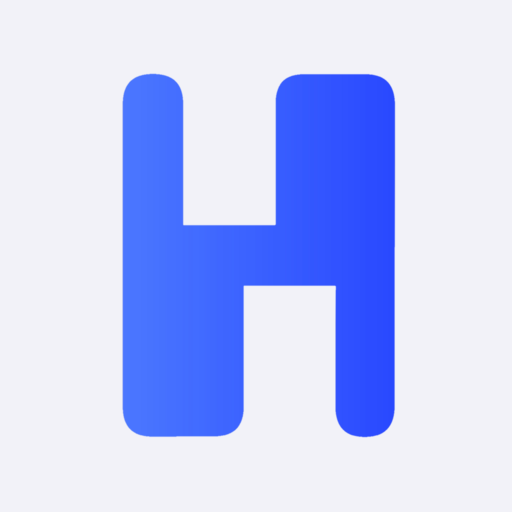
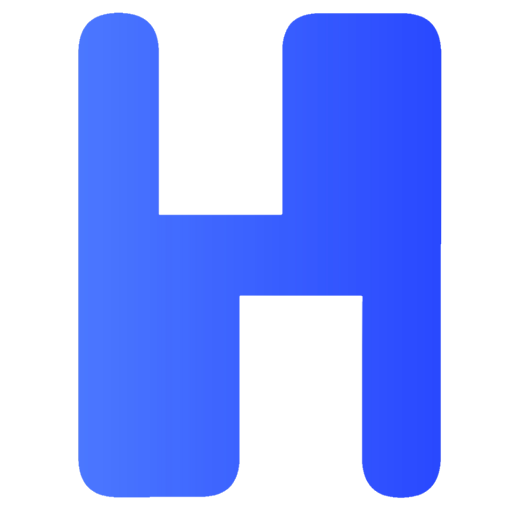
wish it pwa

Changed region(s): [[0.125, 0.0, 0.875, 1.0]]

diff --git a/index.html b/index.html
@@ -1,4 +1,4 @@
-<!doctype html><html><head><meta name=generator content="Hugo 0.94.0"><meta charset=utf-8><meta name=viewport content="width=device-width,initial-scale=1"><meta name=google-site-verification content="L5chh5oVhWYYp1IqtLhmsiMPhS5k-FSFng2yl7F-F2s"><meta name=description content="Blog and Resume for Ahmad Habibi"><meta name=msapplication-TileColor content="#f2f2f8"><meta name=theme-color content="#f2f2f8"><title>HBBIIIII - Ahmad Rizky Nusantara Habibi</title><link rel="shortcut icon" href=/favicon.ico alt type=image/png><link rel=apple-touch-icon sizes=180x180 href=/apple-touch-icon.png><link rel=icon type=image/png sizes=32x32 href=/favicon-32x32.png><link rel=icon type=image/png sizes=16x16 href=/favicon-16x16.png><link rel=manifest href=/manifest.json><link rel=mask-icon href=/safari-pinned-tab.svg color=#0d6efd><link href=/css/style.css rel=stylesheet><link href=/css/syntax.css rel=stylesheet><link href=/css/font-awesome-6.0.0.css rel=stylesheet><link href=/css/bootstrap.min.css rel=stylesheet><script type=text/javascript src=/js/bootstrap.bundle.min.js async></script>
+<!doctype html><html><head><meta name=generator content="Hugo 0.94.0"><meta charset=utf-8><meta name=viewport content="width=device-width,initial-scale=1"><title>HBBIIIII - Ahmad Rizky Nusantara Habibi</title><meta name=google-site-verification content="L5chh5oVhWYYp1IqtLhmsiMPhS5k-FSFng2yl7F-F2s"><meta name=description content="Blog and Resume for Ahmad Habibi"><meta name=msapplication-TileImage content="android-chrome-144x144.png"><meta name=msapplication-TileColor content="#f2f2f8"><meta name=apple-mobile-web-app-capable content="yes"><meta name=apple-mobile-web-app-status-bar-style content="#f2f2f8"><meta name=apple-mobile-web-app-title content="Hello World"><meta name=theme-color content="#1f1f24"><link rel="shortcut icon" href=/favicon.ico alt type=image/x-icon><link rel=apple-touch-icon sizes=180x180 href=/apple-touch-icon.png><link rel=icon type=image/png sizes=32x32 href=/favicon-32x32.png><link rel=icon type=image/png sizes=16x16 href=/favicon-16x16.png><link rel=manifest href=/manifest.json><link href=/css/style.css rel=stylesheet><link href=/css/syntax.css rel=stylesheet><link href=/css/font-awesome-6.0.0.css rel=stylesheet><link href=/css/bootstrap.min.css rel=stylesheet><script type=text/javascript src=/js/bootstrap.bundle.min.js async></script>
 <script type=text/javascript src=/js/font-awesome-6.0.0.js async></script>
 <script type=text/javascript src=/js/dark-mode.js></script></head><body><nav class="navbar navbar-expand-lg fixed-top shadow border-top border-5 border-primary"><div class=container-lg><a class="navbar-brand fw-bold fs-5" href=https://habibi2004.tech/><span class=text-coloring>HBBII</span><span class=text-primary>III</span><span class=text-coloring>></span></a>
 <button class=navbar-toggler type=button data-bs-toggle=collapse data-bs-target=#navbarNav aria-controls=navbarNav aria-expanded=false aria-label="Toggle navigation">
@@ -6,4 +6,4 @@
 <a class=text-coloring href=https://wa.me/6285339384959><i class="fa-brands fa-whatsapp social-icons"></i></a>
 <a class=text-coloring href=https://www.instagram.com/ahmadhabibi14_><i class="fa-brands fa-instagram social-icons"></i></a>
 <a class=text-coloring href=https://t.me/ahmadhabibi14><i class="fa-brands fa-telegram social-icons"></i></a>
-<a class=text-coloring href=https://www.github.com/ahmadhabibi14><i class="fa-brands fa-github social-icons"></i></a></div><br><div><hr><br><p class=fs-5 style=font-family:calibri>I'm a 17-year-old student from Indonesia. This is my Personal website which are include my Portfolio and Blogs.</p><br><hr></div></div></div></div></div></section><script>navigator.serviceWorker.controller?console.log("cannot register"):navigator.serviceWorker.register("./service-worker.js").then(function(e){console.log("Service worker has been registered for scope: "+e.scope)})</script></div><footer class="footer py-4"><div class=container-lg><div class=row><div class=col-lg-12><p class="m-0 text-center text-second">&copy; <script>document.write((new Date).getFullYear())</script>• <a href=https://habibi2004.tech/ class="text-decoration-none text-second">Ahmad Habibi</a></p><p class="m-0 text-center text-second">Made with ❤ using <a href=https://gohugo.io class="text-decoration-none text-second">Hugo</a></p></div></div></div></footer></body></html>
+<a class=text-coloring href=https://www.github.com/ahmadhabibi14><i class="fa-brands fa-github social-icons"></i></a></div><br><div><hr><br><p class=fs-5 style=font-family:calibri>I'm a 17-year-old student from Indonesia. This is my Personal website which are include my Portfolio and Blogs.</p><br><hr></div></div></div></div></div></section><script>window.onload=()=>{'use strict';"serviceWorker"in navigator&&navigator.serviceWorker.register("./service-worker.js")}</script></div><footer class="footer py-4"><div class=container-lg><div class=row><div class=col-lg-12><p class="m-0 text-center text-second">&copy; <script>document.write((new Date).getFullYear())</script>• <a href=https://habibi2004.tech/ class="text-decoration-none text-second">Ahmad Habibi</a></p><p class="m-0 text-center text-second">Made with ❤ using <a href=https://gohugo.io class="text-decoration-none text-second">Hugo</a></p></div></div></div></footer></body></html>

diff --git a/blog/konfigurasi-custom-domain-github-page-dengan-cloudflare/index.html b/blog/konfigurasi-custom-domain-github-page-dengan-cloudflare/index.html
@@ -1,4 +1,4 @@
-<!doctype html><html><head><meta charset=utf-8><meta name=viewport content="width=device-width,initial-scale=1"><meta name=google-site-verification content="L5chh5oVhWYYp1IqtLhmsiMPhS5k-FSFng2yl7F-F2s"><meta name=description content="Blog and Resume for Ahmad Habibi"><meta name=msapplication-TileColor content="#f2f2f8"><meta name=theme-color content="#f2f2f8"><title>Konfigurasi Custom Domain GitHub Page dengan Cloudflare</title><link rel="shortcut icon" href=/favicon.ico alt type=image/png><link rel=apple-touch-icon sizes=180x180 href=/apple-touch-icon.png><link rel=icon type=image/png sizes=32x32 href=/favicon-32x32.png><link rel=icon type=image/png sizes=16x16 href=/favicon-16x16.png><link rel=manifest href=/manifest.json><link rel=mask-icon href=/safari-pinned-tab.svg color=#0d6efd><link href=/css/style.css rel=stylesheet><link href=/css/syntax.css rel=stylesheet><link href=/css/font-awesome-6.0.0.css rel=stylesheet><link href=/css/bootstrap.min.css rel=stylesheet><script type=text/javascript src=/js/bootstrap.bundle.min.js async></script>
+<!doctype html><html><head><meta charset=utf-8><meta name=viewport content="width=device-width,initial-scale=1"><title>Konfigurasi Custom Domain GitHub Page dengan Cloudflare</title><meta name=google-site-verification content="L5chh5oVhWYYp1IqtLhmsiMPhS5k-FSFng2yl7F-F2s"><meta name=description content="Blog and Resume for Ahmad Habibi"><meta name=msapplication-TileImage content="android-chrome-144x144.png"><meta name=msapplication-TileColor content="#f2f2f8"><meta name=apple-mobile-web-app-capable content="yes"><meta name=apple-mobile-web-app-status-bar-style content="#f2f2f8"><meta name=apple-mobile-web-app-title content="Hello World"><meta name=theme-color content="#1f1f24"><link rel="shortcut icon" href=/favicon.ico alt type=image/x-icon><link rel=apple-touch-icon sizes=180x180 href=/apple-touch-icon.png><link rel=icon type=image/png sizes=32x32 href=/favicon-32x32.png><link rel=icon type=image/png sizes=16x16 href=/favicon-16x16.png><link rel=manifest href=/manifest.json><link href=/css/style.css rel=stylesheet><link href=/css/syntax.css rel=stylesheet><link href=/css/font-awesome-6.0.0.css rel=stylesheet><link href=/css/bootstrap.min.css rel=stylesheet><script type=text/javascript src=/js/bootstrap.bundle.min.js async></script>
 <script type=text/javascript src=/js/font-awesome-6.0.0.js async></script>
 <script type=text/javascript src=/js/dark-mode.js></script></head><body><nav class="navbar navbar-expand-lg fixed-top shadow border-top border-5 border-primary"><div class=container-lg><a class="navbar-brand fw-bold fs-5" href=https://habibi2004.tech/><span class=text-coloring>HBBII</span><span class=text-primary>III</span><span class=text-coloring>></span></a>
 <button class=navbar-toggler type=button data-bs-toggle=collapse data-bs-target=#navbarNav aria-controls=navbarNav aria-expanded=false aria-label="Toggle navigation">

diff --git a/blog/solved-manjaro-os-incorrect-password-problem/index.html b/blog/solved-manjaro-os-incorrect-password-problem/index.html
@@ -1,4 +1,4 @@
-<!doctype html><html><head><meta charset=utf-8><meta name=viewport content="width=device-width,initial-scale=1"><meta name=google-site-verification content="L5chh5oVhWYYp1IqtLhmsiMPhS5k-FSFng2yl7F-F2s"><meta name=description content="Blog and Resume for Ahmad Habibi"><meta name=msapplication-TileColor content="#f2f2f8"><meta name=theme-color content="#f2f2f8"><title>[SOLVED]: Manjaro OS Incorrect Password Problem</title><link rel="shortcut icon" href=/favicon.ico alt type=image/png><link rel=apple-touch-icon sizes=180x180 href=/apple-touch-icon.png><link rel=icon type=image/png sizes=32x32 href=/favicon-32x32.png><link rel=icon type=image/png sizes=16x16 href=/favicon-16x16.png><link rel=manifest href=/manifest.json><link rel=mask-icon href=/safari-pinned-tab.svg color=#0d6efd><link href=/css/style.css rel=stylesheet><link href=/css/syntax.css rel=stylesheet><link href=/css/font-awesome-6.0.0.css rel=stylesheet><link href=/css/bootstrap.min.css rel=stylesheet><script type=text/javascript src=/js/bootstrap.bundle.min.js async></script>
+<!doctype html><html><head><meta charset=utf-8><meta name=viewport content="width=device-width,initial-scale=1"><title>[SOLVED]: Manjaro OS Incorrect Password Problem</title><meta name=google-site-verification content="L5chh5oVhWYYp1IqtLhmsiMPhS5k-FSFng2yl7F-F2s"><meta name=description content="Blog and Resume for Ahmad Habibi"><meta name=msapplication-TileImage content="android-chrome-144x144.png"><meta name=msapplication-TileColor content="#f2f2f8"><meta name=apple-mobile-web-app-capable content="yes"><meta name=apple-mobile-web-app-status-bar-style content="#f2f2f8"><meta name=apple-mobile-web-app-title content="Hello World"><meta name=theme-color content="#1f1f24"><link rel="shortcut icon" href=/favicon.ico alt type=image/x-icon><link rel=apple-touch-icon sizes=180x180 href=/apple-touch-icon.png><link rel=icon type=image/png sizes=32x32 href=/favicon-32x32.png><link rel=icon type=image/png sizes=16x16 href=/favicon-16x16.png><link rel=manifest href=/manifest.json><link href=/css/style.css rel=stylesheet><link href=/css/syntax.css rel=stylesheet><link href=/css/font-awesome-6.0.0.css rel=stylesheet><link href=/css/bootstrap.min.css rel=stylesheet><script type=text/javascript src=/js/bootstrap.bundle.min.js async></script>
 <script type=text/javascript src=/js/font-awesome-6.0.0.js async></script>
 <script type=text/javascript src=/js/dark-mode.js></script></head><body><nav class="navbar navbar-expand-lg fixed-top shadow border-top border-5 border-primary"><div class=container-lg><a class="navbar-brand fw-bold fs-5" href=https://habibi2004.tech/><span class=text-coloring>HBBII</span><span class=text-primary>III</span><span class=text-coloring>></span></a>
 <button class=navbar-toggler type=button data-bs-toggle=collapse data-bs-target=#navbarNav aria-controls=navbarNav aria-expanded=false aria-label="Toggle navigation">

diff --git a/blog/cara-menjalankan-local-web-server-di-linux/index.html b/blog/cara-menjalankan-local-web-server-di-linux/index.html
@@ -1,4 +1,4 @@
-<!doctype html><html><head><meta charset=utf-8><meta name=viewport content="width=device-width,initial-scale=1"><meta name=google-site-verification content="L5chh5oVhWYYp1IqtLhmsiMPhS5k-FSFng2yl7F-F2s"><meta name=description content="Blog and Resume for Ahmad Habibi"><meta name=msapplication-TileColor content="#f2f2f8"><meta name=theme-color content="#f2f2f8"><title>Cara Menjalankan Local Web Server Di Linux</title><link rel="shortcut icon" href=/favicon.ico alt type=image/png><link rel=apple-touch-icon sizes=180x180 href=/apple-touch-icon.png><link rel=icon type=image/png sizes=32x32 href=/favicon-32x32.png><link rel=icon type=image/png sizes=16x16 href=/favicon-16x16.png><link rel=manifest href=/manifest.json><link rel=mask-icon href=/safari-pinned-tab.svg color=#0d6efd><link href=/css/style.css rel=stylesheet><link href=/css/syntax.css rel=stylesheet><link href=/css/font-awesome-6.0.0.css rel=stylesheet><link href=/css/bootstrap.min.css rel=stylesheet><script type=text/javascript src=/js/bootstrap.bundle.min.js async></script>
+<!doctype html><html><head><meta charset=utf-8><meta name=viewport content="width=device-width,initial-scale=1"><title>Cara Menjalankan Local Web Server Di Linux</title><meta name=google-site-verification content="L5chh5oVhWYYp1IqtLhmsiMPhS5k-FSFng2yl7F-F2s"><meta name=description content="Blog and Resume for Ahmad Habibi"><meta name=msapplication-TileImage content="android-chrome-144x144.png"><meta name=msapplication-TileColor content="#f2f2f8"><meta name=apple-mobile-web-app-capable content="yes"><meta name=apple-mobile-web-app-status-bar-style content="#f2f2f8"><meta name=apple-mobile-web-app-title content="Hello World"><meta name=theme-color content="#1f1f24"><link rel="shortcut icon" href=/favicon.ico alt type=image/x-icon><link rel=apple-touch-icon sizes=180x180 href=/apple-touch-icon.png><link rel=icon type=image/png sizes=32x32 href=/favicon-32x32.png><link rel=icon type=image/png sizes=16x16 href=/favicon-16x16.png><link rel=manifest href=/manifest.json><link href=/css/style.css rel=stylesheet><link href=/css/syntax.css rel=stylesheet><link href=/css/font-awesome-6.0.0.css rel=stylesheet><link href=/css/bootstrap.min.css rel=stylesheet><script type=text/javascript src=/js/bootstrap.bundle.min.js async></script>
 <script type=text/javascript src=/js/font-awesome-6.0.0.js async></script>
 <script type=text/javascript src=/js/dark-mode.js></script></head><body><nav class="navbar navbar-expand-lg fixed-top shadow border-top border-5 border-primary"><div class=container-lg><a class="navbar-brand fw-bold fs-5" href=https://habibi2004.tech/><span class=text-coloring>HBBII</span><span class=text-primary>III</span><span class=text-coloring>></span></a>
 <button class=navbar-toggler type=button data-bs-toggle=collapse data-bs-target=#navbarNav aria-controls=navbarNav aria-expanded=false aria-label="Toggle navigation">

diff --git a/blog/customize-syntax-highlighting-in-hugo/index.html b/blog/customize-syntax-highlighting-in-hugo/index.html
@@ -1,4 +1,4 @@
-<!doctype html><html><head><meta charset=utf-8><meta name=viewport content="width=device-width,initial-scale=1"><meta name=google-site-verification content="L5chh5oVhWYYp1IqtLhmsiMPhS5k-FSFng2yl7F-F2s"><meta name=description content="Blog and Resume for Ahmad Habibi"><meta name=msapplication-TileColor content="#f2f2f8"><meta name=theme-color content="#f2f2f8"><title>Customize Syntax Highlighting in Hugo</title><link rel="shortcut icon" href=/favicon.ico alt type=image/png><link rel=apple-touch-icon sizes=180x180 href=/apple-touch-icon.png><link rel=icon type=image/png sizes=32x32 href=/favicon-32x32.png><link rel=icon type=image/png sizes=16x16 href=/favicon-16x16.png><link rel=manifest href=/manifest.json><link rel=mask-icon href=/safari-pinned-tab.svg color=#0d6efd><link href=/css/style.css rel=stylesheet><link href=/css/syntax.css rel=stylesheet><link href=/css/font-awesome-6.0.0.css rel=stylesheet><link href=/css/bootstrap.min.css rel=stylesheet><script type=text/javascript src=/js/bootstrap.bundle.min.js async></script>
+<!doctype html><html><head><meta charset=utf-8><meta name=viewport content="width=device-width,initial-scale=1"><title>Customize Syntax Highlighting in Hugo</title><meta name=google-site-verification content="L5chh5oVhWYYp1IqtLhmsiMPhS5k-FSFng2yl7F-F2s"><meta name=description content="Blog and Resume for Ahmad Habibi"><meta name=msapplication-TileImage content="android-chrome-144x144.png"><meta name=msapplication-TileColor content="#f2f2f8"><meta name=apple-mobile-web-app-capable content="yes"><meta name=apple-mobile-web-app-status-bar-style content="#f2f2f8"><meta name=apple-mobile-web-app-title content="Hello World"><meta name=theme-color content="#1f1f24"><link rel="shortcut icon" href=/favicon.ico alt type=image/x-icon><link rel=apple-touch-icon sizes=180x180 href=/apple-touch-icon.png><link rel=icon type=image/png sizes=32x32 href=/favicon-32x32.png><link rel=icon type=image/png sizes=16x16 href=/favicon-16x16.png><link rel=manifest href=/manifest.json><link href=/css/style.css rel=stylesheet><link href=/css/syntax.css rel=stylesheet><link href=/css/font-awesome-6.0.0.css rel=stylesheet><link href=/css/bootstrap.min.css rel=stylesheet><script type=text/javascript src=/js/bootstrap.bundle.min.js async></script>
 <script type=text/javascript src=/js/font-awesome-6.0.0.js async></script>
 <script type=text/javascript src=/js/dark-mode.js></script></head><body><nav class="navbar navbar-expand-lg fixed-top shadow border-top border-5 border-primary"><div class=container-lg><a class="navbar-brand fw-bold fs-5" href=https://habibi2004.tech/><span class=text-coloring>HBBII</span><span class=text-primary>III</span><span class=text-coloring>></span></a>
 <button class=navbar-toggler type=button data-bs-toggle=collapse data-bs-target=#navbarNav aria-controls=navbarNav aria-expanded=false aria-label="Toggle navigation">

diff --git a/blog/membuat-efek-blur-pada-website/index.html b/blog/membuat-efek-blur-pada-website/index.html
@@ -1,4 +1,4 @@
-<!doctype html><html><head><meta charset=utf-8><meta name=viewport content="width=device-width,initial-scale=1"><meta name=google-site-verification content="L5chh5oVhWYYp1IqtLhmsiMPhS5k-FSFng2yl7F-F2s"><meta name=description content="Blog and Resume for Ahmad Habibi"><meta name=msapplication-TileColor content="#f2f2f8"><meta name=theme-color content="#f2f2f8"><title>Membuat Efek Blur Pada Website</title><link rel="shortcut icon" href=/favicon.ico alt type=image/png><link rel=apple-touch-icon sizes=180x180 href=/apple-touch-icon.png><link rel=icon type=image/png sizes=32x32 href=/favicon-32x32.png><link rel=icon type=image/png sizes=16x16 href=/favicon-16x16.png><link rel=manifest href=/manifest.json><link rel=mask-icon href=/safari-pinned-tab.svg color=#0d6efd><link href=/css/style.css rel=stylesheet><link href=/css/syntax.css rel=stylesheet><link href=/css/font-awesome-6.0.0.css rel=stylesheet><link href=/css/bootstrap.min.css rel=stylesheet><script type=text/javascript src=/js/bootstrap.bundle.min.js async></script>
+<!doctype html><html><head><meta charset=utf-8><meta name=viewport content="width=device-width,initial-scale=1"><title>Membuat Efek Blur Pada Website</title><meta name=google-site-verification content="L5chh5oVhWYYp1IqtLhmsiMPhS5k-FSFng2yl7F-F2s"><meta name=description content="Blog and Resume for Ahmad Habibi"><meta name=msapplication-TileImage content="android-chrome-144x144.png"><meta name=msapplication-TileColor content="#f2f2f8"><meta name=apple-mobile-web-app-capable content="yes"><meta name=apple-mobile-web-app-status-bar-style content="#f2f2f8"><meta name=apple-mobile-web-app-title content="Hello World"><meta name=theme-color content="#1f1f24"><link rel="shortcut icon" href=/favicon.ico alt type=image/x-icon><link rel=apple-touch-icon sizes=180x180 href=/apple-touch-icon.png><link rel=icon type=image/png sizes=32x32 href=/favicon-32x32.png><link rel=icon type=image/png sizes=16x16 href=/favicon-16x16.png><link rel=manifest href=/manifest.json><link href=/css/style.css rel=stylesheet><link href=/css/syntax.css rel=stylesheet><link href=/css/font-awesome-6.0.0.css rel=stylesheet><link href=/css/bootstrap.min.css rel=stylesheet><script type=text/javascript src=/js/bootstrap.bundle.min.js async></script>
 <script type=text/javascript src=/js/font-awesome-6.0.0.js async></script>
 <script type=text/javascript src=/js/dark-mode.js></script></head><body><nav class="navbar navbar-expand-lg fixed-top shadow border-top border-5 border-primary"><div class=container-lg><a class="navbar-brand fw-bold fs-5" href=https://habibi2004.tech/><span class=text-coloring>HBBII</span><span class=text-primary>III</span><span class=text-coloring>></span></a>
 <button class=navbar-toggler type=button data-bs-toggle=collapse data-bs-target=#navbarNav aria-controls=navbarNav aria-expanded=false aria-label="Toggle navigation">

diff --git a/blog/why-i-started-blogging/index.html b/blog/why-i-started-blogging/index.html
@@ -1,4 +1,4 @@
-<!doctype html><html><head><meta charset=utf-8><meta name=viewport content="width=device-width,initial-scale=1"><meta name=google-site-verification content="L5chh5oVhWYYp1IqtLhmsiMPhS5k-FSFng2yl7F-F2s"><meta name=description content="Blog and Resume for Ahmad Habibi"><meta name=msapplication-TileColor content="#f2f2f8"><meta name=theme-color content="#f2f2f8"><title>Why I Started Blogging</title><link rel="shortcut icon" href=/favicon.ico alt type=image/png><link rel=apple-touch-icon sizes=180x180 href=/apple-touch-icon.png><link rel=icon type=image/png sizes=32x32 href=/favicon-32x32.png><link rel=icon type=image/png sizes=16x16 href=/favicon-16x16.png><link rel=manifest href=/manifest.json><link rel=mask-icon href=/safari-pinned-tab.svg color=#0d6efd><link href=/css/style.css rel=stylesheet><link href=/css/syntax.css rel=stylesheet><link href=/css/font-awesome-6.0.0.css rel=stylesheet><link href=/css/bootstrap.min.css rel=stylesheet><script type=text/javascript src=/js/bootstrap.bundle.min.js async></script>
+<!doctype html><html><head><meta charset=utf-8><meta name=viewport content="width=device-width,initial-scale=1"><title>Why I Started Blogging</title><meta name=google-site-verification content="L5chh5oVhWYYp1IqtLhmsiMPhS5k-FSFng2yl7F-F2s"><meta name=description content="Blog and Resume for Ahmad Habibi"><meta name=msapplication-TileImage content="android-chrome-144x144.png"><meta name=msapplication-TileColor content="#f2f2f8"><meta name=apple-mobile-web-app-capable content="yes"><meta name=apple-mobile-web-app-status-bar-style content="#f2f2f8"><meta name=apple-mobile-web-app-title content="Hello World"><meta name=theme-color content="#1f1f24"><link rel="shortcut icon" href=/favicon.ico alt type=image/x-icon><link rel=apple-touch-icon sizes=180x180 href=/apple-touch-icon.png><link rel=icon type=image/png sizes=32x32 href=/favicon-32x32.png><link rel=icon type=image/png sizes=16x16 href=/favicon-16x16.png><link rel=manifest href=/manifest.json><link href=/css/style.css rel=stylesheet><link href=/css/syntax.css rel=stylesheet><link href=/css/font-awesome-6.0.0.css rel=stylesheet><link href=/css/bootstrap.min.css rel=stylesheet><script type=text/javascript src=/js/bootstrap.bundle.min.js async></script>
 <script type=text/javascript src=/js/font-awesome-6.0.0.js async></script>
 <script type=text/javascript src=/js/dark-mode.js></script></head><body><nav class="navbar navbar-expand-lg fixed-top shadow border-top border-5 border-primary"><div class=container-lg><a class="navbar-brand fw-bold fs-5" href=https://habibi2004.tech/><span class=text-coloring>HBBII</span><span class=text-primary>III</span><span class=text-coloring>></span></a>
 <button class=navbar-toggler type=button data-bs-toggle=collapse data-bs-target=#navbarNav aria-controls=navbarNav aria-expanded=false aria-label="Toggle navigation">

diff --git a/404.html b/404.html
@@ -1,4 +1,4 @@
-<!doctype html><html><head><meta charset=utf-8><meta name=viewport content="width=device-width,initial-scale=1"><meta name=google-site-verification content="L5chh5oVhWYYp1IqtLhmsiMPhS5k-FSFng2yl7F-F2s"><meta name=description content="Blog and Resume for Ahmad Habibi"><meta name=msapplication-TileColor content="#f2f2f8"><meta name=theme-color content="#f2f2f8"><title>404 Page not found</title><link rel="shortcut icon" href=/favicon.ico alt type=image/png><link rel=apple-touch-icon sizes=180x180 href=/apple-touch-icon.png><link rel=icon type=image/png sizes=32x32 href=/favicon-32x32.png><link rel=icon type=image/png sizes=16x16 href=/favicon-16x16.png><link rel=manifest href=/manifest.json><link rel=mask-icon href=/safari-pinned-tab.svg color=#0d6efd><link href=/css/style.css rel=stylesheet><link href=/css/syntax.css rel=stylesheet><link href=/css/font-awesome-6.0.0.css rel=stylesheet><link href=/css/bootstrap.min.css rel=stylesheet><script type=text/javascript src=/js/bootstrap.bundle.min.js async></script>
+<!doctype html><html><head><meta charset=utf-8><meta name=viewport content="width=device-width,initial-scale=1"><title>404 Page not found</title><meta name=google-site-verification content="L5chh5oVhWYYp1IqtLhmsiMPhS5k-FSFng2yl7F-F2s"><meta name=description content="Blog and Resume for Ahmad Habibi"><meta name=msapplication-TileImage content="android-chrome-144x144.png"><meta name=msapplication-TileColor content="#f2f2f8"><meta name=apple-mobile-web-app-capable content="yes"><meta name=apple-mobile-web-app-status-bar-style content="#f2f2f8"><meta name=apple-mobile-web-app-title content="Hello World"><meta name=theme-color content="#1f1f24"><link rel="shortcut icon" href=/favicon.ico alt type=image/x-icon><link rel=apple-touch-icon sizes=180x180 href=/apple-touch-icon.png><link rel=icon type=image/png sizes=32x32 href=/favicon-32x32.png><link rel=icon type=image/png sizes=16x16 href=/favicon-16x16.png><link rel=manifest href=/manifest.json><link href=/css/style.css rel=stylesheet><link href=/css/syntax.css rel=stylesheet><link href=/css/font-awesome-6.0.0.css rel=stylesheet><link href=/css/bootstrap.min.css rel=stylesheet><script type=text/javascript src=/js/bootstrap.bundle.min.js async></script>
 <script type=text/javascript src=/js/font-awesome-6.0.0.js async></script>
 <script type=text/javascript src=/js/dark-mode.js></script></head><body><nav class="navbar navbar-expand-lg fixed-top shadow border-top border-5 border-primary"><div class=container-lg><a class="navbar-brand fw-bold fs-5" href=https://habibi2004.tech/><span class=text-coloring>HBBII</span><span class=text-primary>III</span><span class=text-coloring>></span></a>
 <button class=navbar-toggler type=button data-bs-toggle=collapse data-bs-target=#navbarNav aria-controls=navbarNav aria-expanded=false aria-label="Toggle navigation">

diff --git a/contact/index.html b/contact/index.html
@@ -1,4 +1,4 @@
-<!doctype html><html><head><meta charset=utf-8><meta name=viewport content="width=device-width,initial-scale=1"><meta name=google-site-verification content="L5chh5oVhWYYp1IqtLhmsiMPhS5k-FSFng2yl7F-F2s"><meta name=description content="Blog and Resume for Ahmad Habibi"><meta name=msapplication-TileColor content="#f2f2f8"><meta name=theme-color content="#f2f2f8"><title>Contact</title><link rel="shortcut icon" href=/favicon.ico alt type=image/png><link rel=apple-touch-icon sizes=180x180 href=/apple-touch-icon.png><link rel=icon type=image/png sizes=32x32 href=/favicon-32x32.png><link rel=icon type=image/png sizes=16x16 href=/favicon-16x16.png><link rel=manifest href=/manifest.json><link rel=mask-icon href=/safari-pinned-tab.svg color=#0d6efd><link href=/css/style.css rel=stylesheet><link href=/css/syntax.css rel=stylesheet><link href=/css/font-awesome-6.0.0.css rel=stylesheet><link href=/css/bootstrap.min.css rel=stylesheet><script type=text/javascript src=/js/bootstrap.bundle.min.js async></script>
+<!doctype html><html><head><meta charset=utf-8><meta name=viewport content="width=device-width,initial-scale=1"><title>Contact</title><meta name=google-site-verification content="L5chh5oVhWYYp1IqtLhmsiMPhS5k-FSFng2yl7F-F2s"><meta name=description content="Blog and Resume for Ahmad Habibi"><meta name=msapplication-TileImage content="android-chrome-144x144.png"><meta name=msapplication-TileColor content="#f2f2f8"><meta name=apple-mobile-web-app-capable content="yes"><meta name=apple-mobile-web-app-status-bar-style content="#f2f2f8"><meta name=apple-mobile-web-app-title content="Hello World"><meta name=theme-color content="#1f1f24"><link rel="shortcut icon" href=/favicon.ico alt type=image/x-icon><link rel=apple-touch-icon sizes=180x180 href=/apple-touch-icon.png><link rel=icon type=image/png sizes=32x32 href=/favicon-32x32.png><link rel=icon type=image/png sizes=16x16 href=/favicon-16x16.png><link rel=manifest href=/manifest.json><link href=/css/style.css rel=stylesheet><link href=/css/syntax.css rel=stylesheet><link href=/css/font-awesome-6.0.0.css rel=stylesheet><link href=/css/bootstrap.min.css rel=stylesheet><script type=text/javascript src=/js/bootstrap.bundle.min.js async></script>
 <script type=text/javascript src=/js/font-awesome-6.0.0.js async></script>
 <script type=text/javascript src=/js/dark-mode.js></script></head><body><nav class="navbar navbar-expand-lg fixed-top shadow border-top border-5 border-primary"><div class=container-lg><a class="navbar-brand fw-bold fs-5" href=https://habibi2004.tech/><span class=text-coloring>HBBII</span><span class=text-primary>III</span><span class=text-coloring>></span></a>
 <button class=navbar-toggler type=button data-bs-toggle=collapse data-bs-target=#navbarNav aria-controls=navbarNav aria-expanded=false aria-label="Toggle navigation">

diff --git a/offline/index.html b/offline/index.html
@@ -1,4 +1,4 @@
-<!doctype html><html><head><meta charset=utf-8><meta name=viewport content="width=device-width,initial-scale=1"><meta name=google-site-verification content="L5chh5oVhWYYp1IqtLhmsiMPhS5k-FSFng2yl7F-F2s"><meta name=description content="Blog and Resume for Ahmad Habibi"><meta name=msapplication-TileColor content="#f2f2f8"><meta name=theme-color content="#f2f2f8"><title>Offline</title><link rel="shortcut icon" href=/favicon.ico alt type=image/png><link rel=apple-touch-icon sizes=180x180 href=/apple-touch-icon.png><link rel=icon type=image/png sizes=32x32 href=/favicon-32x32.png><link rel=icon type=image/png sizes=16x16 href=/favicon-16x16.png><link rel=manifest href=/manifest.json><link rel=mask-icon href=/safari-pinned-tab.svg color=#0d6efd><link href=/css/style.css rel=stylesheet><link href=/css/syntax.css rel=stylesheet><link href=/css/font-awesome-6.0.0.css rel=stylesheet><link href=/css/bootstrap.min.css rel=stylesheet><script type=text/javascript src=/js/bootstrap.bundle.min.js async></script>
+<!doctype html><html><head><meta charset=utf-8><meta name=viewport content="width=device-width,initial-scale=1"><title>Offline</title><meta name=google-site-verification content="L5chh5oVhWYYp1IqtLhmsiMPhS5k-FSFng2yl7F-F2s"><meta name=description content="Blog and Resume for Ahmad Habibi"><meta name=msapplication-TileImage content="android-chrome-144x144.png"><meta name=msapplication-TileColor content="#f2f2f8"><meta name=apple-mobile-web-app-capable content="yes"><meta name=apple-mobile-web-app-status-bar-style content="#f2f2f8"><meta name=apple-mobile-web-app-title content="Hello World"><meta name=theme-color content="#1f1f24"><link rel="shortcut icon" href=/favicon.ico alt type=image/x-icon><link rel=apple-touch-icon sizes=180x180 href=/apple-touch-icon.png><link rel=icon type=image/png sizes=32x32 href=/favicon-32x32.png><link rel=icon type=image/png sizes=16x16 href=/favicon-16x16.png><link rel=manifest href=/manifest.json><link href=/css/style.css rel=stylesheet><link href=/css/syntax.css rel=stylesheet><link href=/css/font-awesome-6.0.0.css rel=stylesheet><link href=/css/bootstrap.min.css rel=stylesheet><script type=text/javascript src=/js/bootstrap.bundle.min.js async></script>
 <script type=text/javascript src=/js/font-awesome-6.0.0.js async></script>
 <script type=text/javascript src=/js/dark-mode.js></script></head><body><nav class="navbar navbar-expand-lg fixed-top shadow border-top border-5 border-primary"><div class=container-lg><a class="navbar-brand fw-bold fs-5" href=https://habibi2004.tech/><span class=text-coloring>HBBII</span><span class=text-primary>III</span><span class=text-coloring>></span></a>
 <button class=navbar-toggler type=button data-bs-toggle=collapse data-bs-target=#navbarNav aria-controls=navbarNav aria-expanded=false aria-label="Toggle navigation">

diff --git a/project/index.html b/project/index.html
@@ -1,4 +1,4 @@
-<!doctype html><html><head><meta charset=utf-8><meta name=viewport content="width=device-width,initial-scale=1"><meta name=google-site-verification content="L5chh5oVhWYYp1IqtLhmsiMPhS5k-FSFng2yl7F-F2s"><meta name=description content="Blog and Resume for Ahmad Habibi"><meta name=msapplication-TileColor content="#f2f2f8"><meta name=theme-color content="#f2f2f8"><title>Project</title><link rel="shortcut icon" href=/favicon.ico alt type=image/png><link rel=apple-touch-icon sizes=180x180 href=/apple-touch-icon.png><link rel=icon type=image/png sizes=32x32 href=/favicon-32x32.png><link rel=icon type=image/png sizes=16x16 href=/favicon-16x16.png><link rel=manifest href=/manifest.json><link rel=mask-icon href=/safari-pinned-tab.svg color=#0d6efd><link href=/css/style.css rel=stylesheet><link href=/css/syntax.css rel=stylesheet><link href=/css/font-awesome-6.0.0.css rel=stylesheet><link href=/css/bootstrap.min.css rel=stylesheet><script type=text/javascript src=/js/bootstrap.bundle.min.js async></script>
+<!doctype html><html><head><meta charset=utf-8><meta name=viewport content="width=device-width,initial-scale=1"><title>Project</title><meta name=google-site-verification content="L5chh5oVhWYYp1IqtLhmsiMPhS5k-FSFng2yl7F-F2s"><meta name=description content="Blog and Resume for Ahmad Habibi"><meta name=msapplication-TileImage content="android-chrome-144x144.png"><meta name=msapplication-TileColor content="#f2f2f8"><meta name=apple-mobile-web-app-capable content="yes"><meta name=apple-mobile-web-app-status-bar-style content="#f2f2f8"><meta name=apple-mobile-web-app-title content="Hello World"><meta name=theme-color content="#1f1f24"><link rel="shortcut icon" href=/favicon.ico alt type=image/x-icon><link rel=apple-touch-icon sizes=180x180 href=/apple-touch-icon.png><link rel=icon type=image/png sizes=32x32 href=/favicon-32x32.png><link rel=icon type=image/png sizes=16x16 href=/favicon-16x16.png><link rel=manifest href=/manifest.json><link href=/css/style.css rel=stylesheet><link href=/css/syntax.css rel=stylesheet><link href=/css/font-awesome-6.0.0.css rel=stylesheet><link href=/css/bootstrap.min.css rel=stylesheet><script type=text/javascript src=/js/bootstrap.bundle.min.js async></script>
 <script type=text/javascript src=/js/font-awesome-6.0.0.js async></script>
 <script type=text/javascript src=/js/dark-mode.js></script></head><body><nav class="navbar navbar-expand-lg fixed-top shadow border-top border-5 border-primary"><div class=container-lg><a class="navbar-brand fw-bold fs-5" href=https://habibi2004.tech/><span class=text-coloring>HBBII</span><span class=text-primary>III</span><span class=text-coloring>></span></a>
 <button class=navbar-toggler type=button data-bs-toggle=collapse data-bs-target=#navbarNav aria-controls=navbarNav aria-expanded=false aria-label="Toggle navigation">

diff --git a/about/index.html b/about/index.html
@@ -1,4 +1,4 @@
-<!doctype html><html><head><meta charset=utf-8><meta name=viewport content="width=device-width,initial-scale=1"><meta name=google-site-verification content="L5chh5oVhWYYp1IqtLhmsiMPhS5k-FSFng2yl7F-F2s"><meta name=description content="Blog and Resume for Ahmad Habibi"><meta name=msapplication-TileColor content="#f2f2f8"><meta name=theme-color content="#f2f2f8"><title>About</title><link rel="shortcut icon" href=/favicon.ico alt type=image/png><link rel=apple-touch-icon sizes=180x180 href=/apple-touch-icon.png><link rel=icon type=image/png sizes=32x32 href=/favicon-32x32.png><link rel=icon type=image/png sizes=16x16 href=/favicon-16x16.png><link rel=manifest href=/manifest.json><link rel=mask-icon href=/safari-pinned-tab.svg color=#0d6efd><link href=/css/style.css rel=stylesheet><link href=/css/syntax.css rel=stylesheet><link href=/css/font-awesome-6.0.0.css rel=stylesheet><link href=/css/bootstrap.min.css rel=stylesheet><script type=text/javascript src=/js/bootstrap.bundle.min.js async></script>
+<!doctype html><html><head><meta charset=utf-8><meta name=viewport content="width=device-width,initial-scale=1"><title>About</title><meta name=google-site-verification content="L5chh5oVhWYYp1IqtLhmsiMPhS5k-FSFng2yl7F-F2s"><meta name=description content="Blog and Resume for Ahmad Habibi"><meta name=msapplication-TileImage content="android-chrome-144x144.png"><meta name=msapplication-TileColor content="#f2f2f8"><meta name=apple-mobile-web-app-capable content="yes"><meta name=apple-mobile-web-app-status-bar-style content="#f2f2f8"><meta name=apple-mobile-web-app-title content="Hello World"><meta name=theme-color content="#1f1f24"><link rel="shortcut icon" href=/favicon.ico alt type=image/x-icon><link rel=apple-touch-icon sizes=180x180 href=/apple-touch-icon.png><link rel=icon type=image/png sizes=32x32 href=/favicon-32x32.png><link rel=icon type=image/png sizes=16x16 href=/favicon-16x16.png><link rel=manifest href=/manifest.json><link href=/css/style.css rel=stylesheet><link href=/css/syntax.css rel=stylesheet><link href=/css/font-awesome-6.0.0.css rel=stylesheet><link href=/css/bootstrap.min.css rel=stylesheet><script type=text/javascript src=/js/bootstrap.bundle.min.js async></script>
 <script type=text/javascript src=/js/font-awesome-6.0.0.js async></script>
 <script type=text/javascript src=/js/dark-mode.js></script></head><body><nav class="navbar navbar-expand-lg fixed-top shadow border-top border-5 border-primary"><div class=container-lg><a class="navbar-brand fw-bold fs-5" href=https://habibi2004.tech/><span class=text-coloring>HBBII</span><span class=text-primary>III</span><span class=text-coloring>></span></a>
 <button class=navbar-toggler type=button data-bs-toggle=collapse data-bs-target=#navbarNav aria-controls=navbarNav aria-expanded=false aria-label="Toggle navigation">
